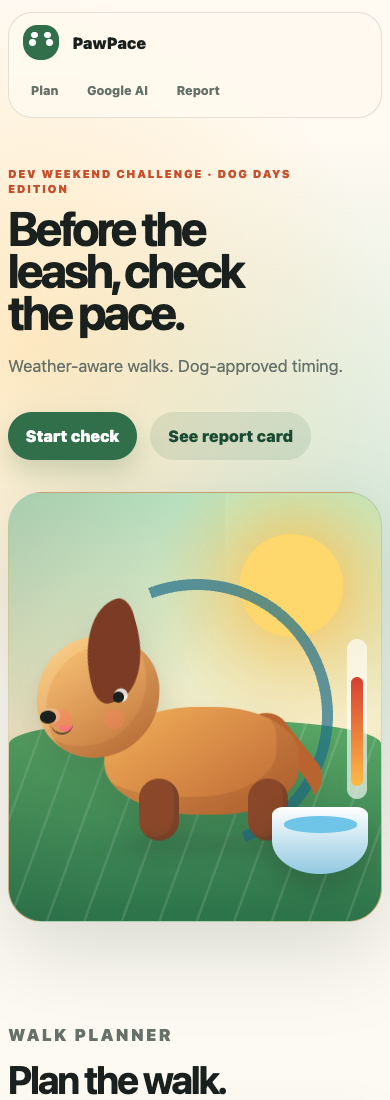
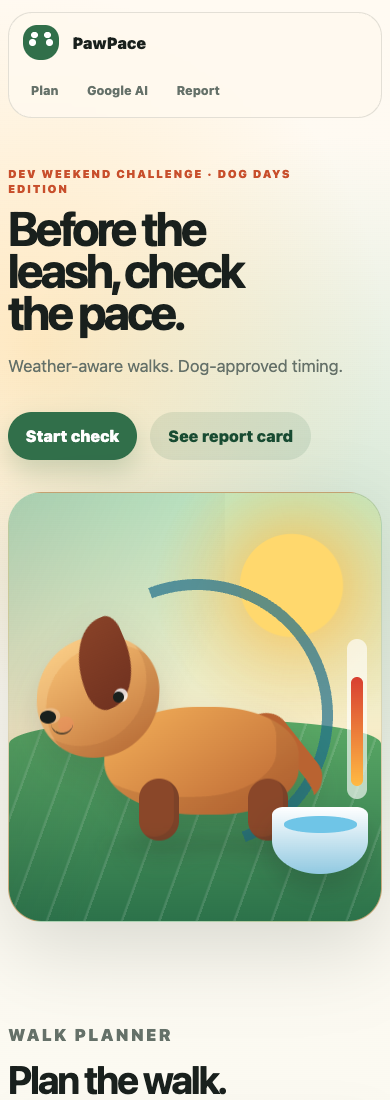
Refine PawPace dog face

Changed region(s): [[0.1846, 0.5255, 0.3692, 0.6491], [0.1538, 0.6491, 0.1846, 0.68]]

diff --git a/dog-days/styles.css b/dog-days/styles.css
@@ -370,37 +370,27 @@ select:focus-visible,
 .head::before {
   content: "";
   position: absolute;
-  left: 13%;
-  bottom: 22%;
-  width: 1.25rem;
+  left: 18%;
+  bottom: 20%;
+  width: 1rem;
   aspect-ratio: 1;
   border-radius: 50%;
-  background: rgba(255, 126, 102, 0.42);
-  box-shadow: 3.25rem -0.15rem 0 rgba(255, 126, 102, 0.32);
+  background: rgba(255, 132, 105, 0.24);
 }
 
 .head::after {
-  content: "";
-  position: absolute;
-  left: 20%;
-  bottom: 12%;
-  width: 0.82rem;
-  height: 1.05rem;
-  border-radius: 0 0 999px 999px;
-  background: #f77776;
-  transform-origin: top center;
-  animation: tongue-peek 2.7s ease-in-out infinite;
+  content: none;
 }
 
 .ear {
-  left: 14%;
-  bottom: 62%;
-  width: 18%;
-  height: 38%;
-  border-radius: 80% 20% 70% 20%;
-  background: #7b3b24;
-  transform: rotate(-22deg);
-  transform-origin: top center;
+  left: 12%;
+  bottom: 60%;
+  width: 17%;
+  height: 34%;
+  border-radius: 78% 22% 72% 28%;
+  background: linear-gradient(160deg, #8a4328, #6e301f);
+  transform: rotate(-30deg);
+  transform-origin: 70% 15%;
   animation: ear-flop 3.8s ease-in-out infinite;
 }
 
@@ -922,10 +912,10 @@ input[type="radio"] {
 @keyframes ear-flop {
   0%,
   100% {
-    transform: rotate(-24deg);
+    transform: rotate(-30deg);
   }
   50% {
-    transform: rotate(-14deg) translateY(0.12rem);
+    transform: rotate(-22deg) translateY(0.08rem);
   }
 }
 
@@ -937,17 +927,6 @@ input[type="radio"] {
   }
   95% {
     transform: scaleY(0.12);
-  }
-}
-
-@keyframes tongue-peek {
-  0%,
-  70%,
-  100% {
-    transform: scaleY(0.35);
-  }
-  82% {
-    transform: scaleY(1);
   }
 }
 
